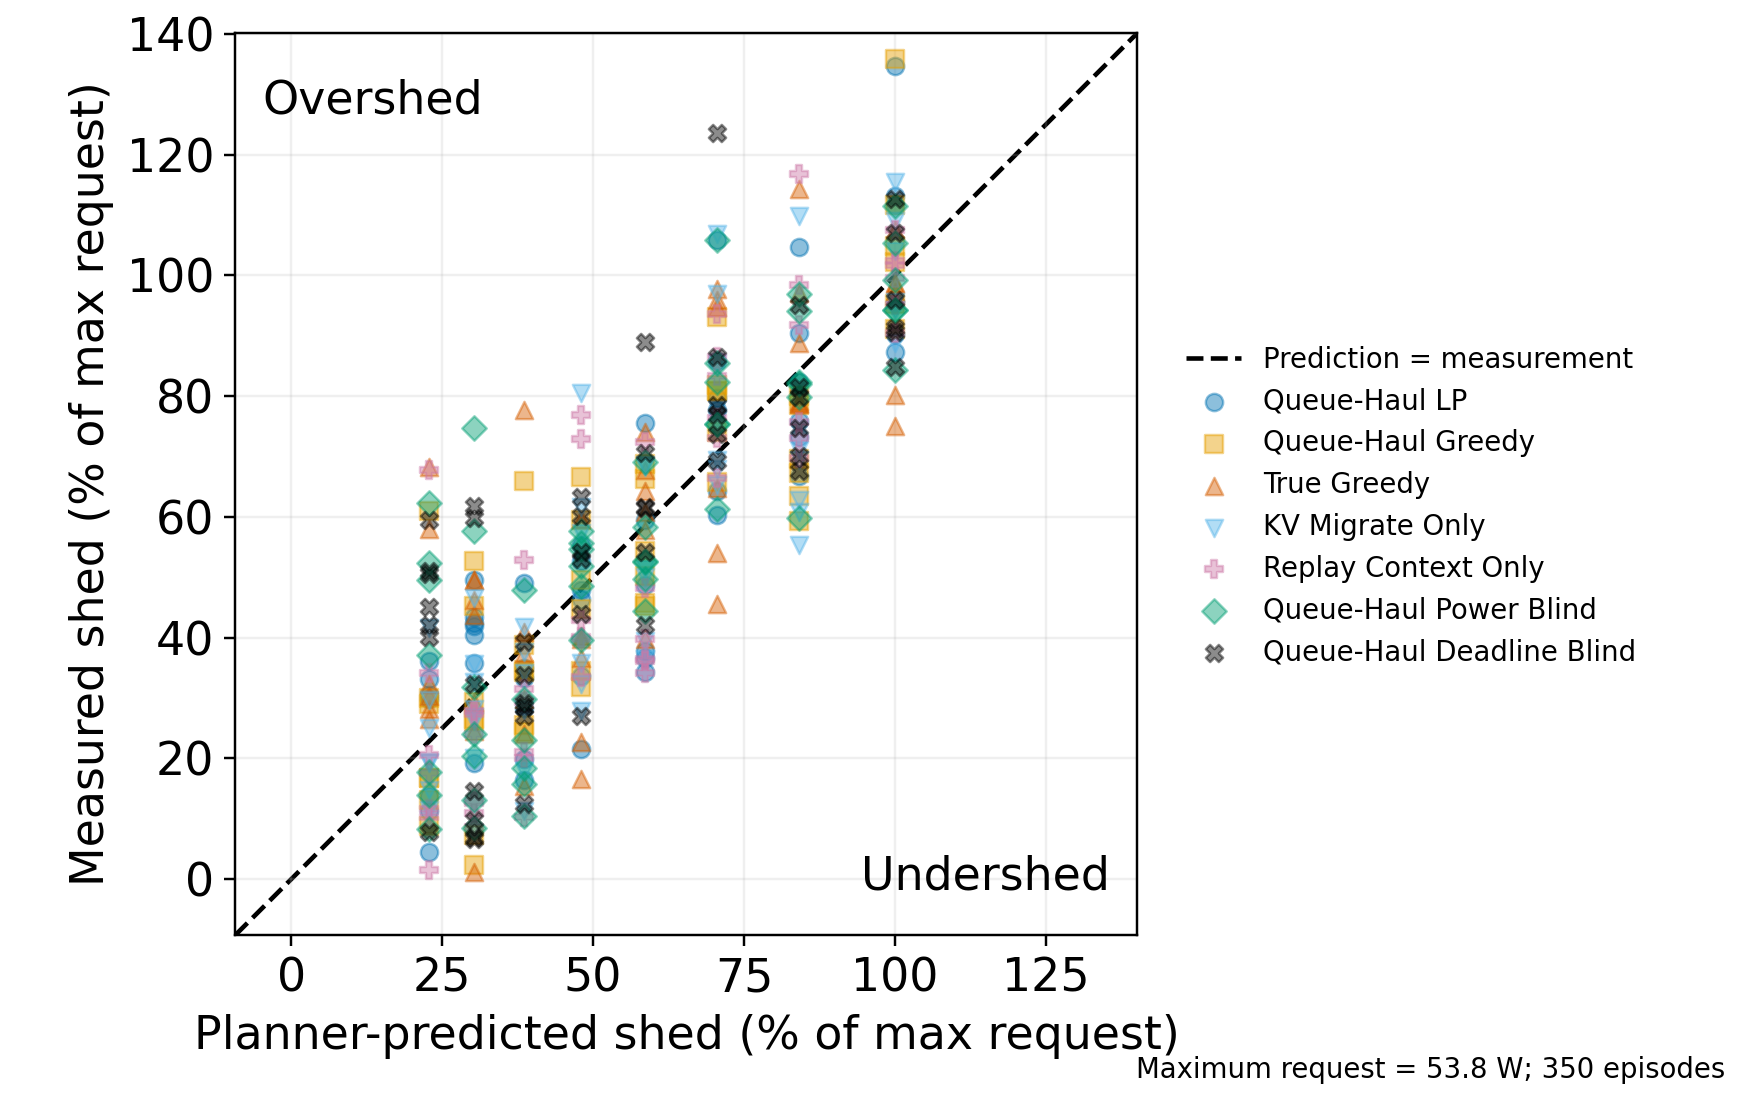
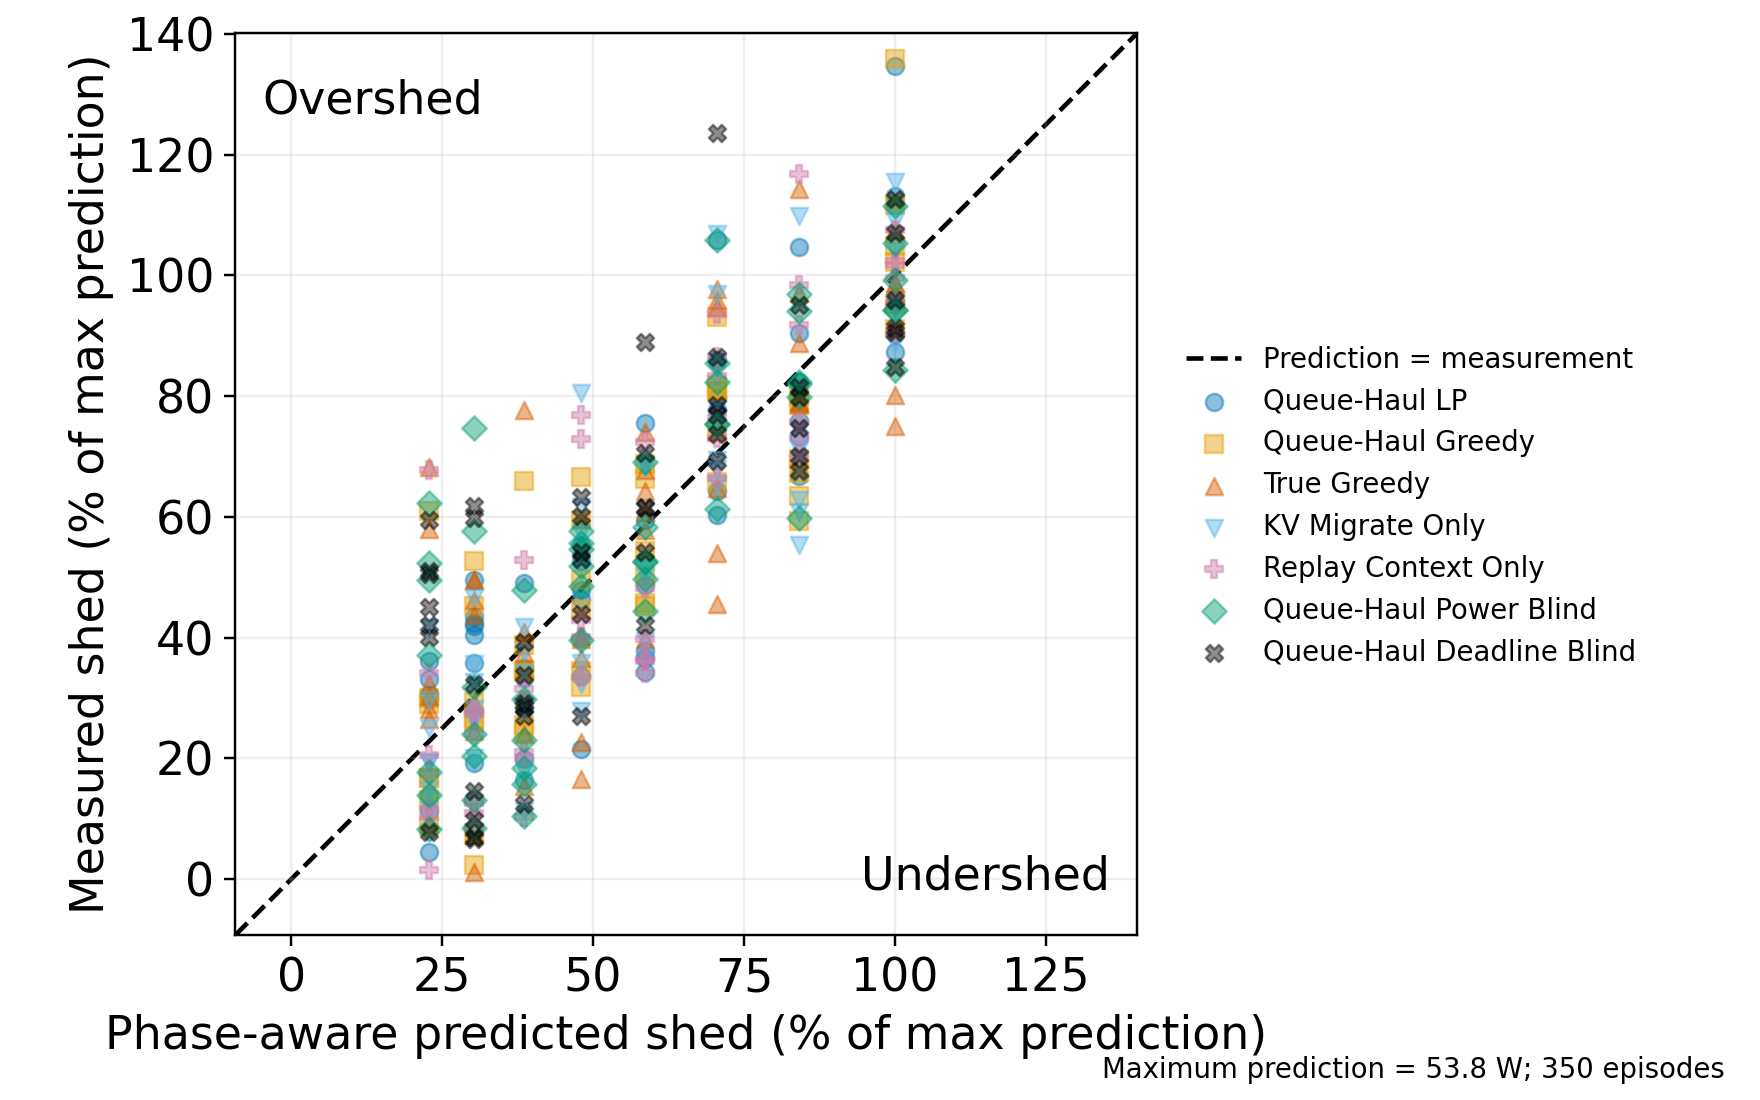
Label phase-aware power parity model

Changed region(s): [[0.0625, 0.9273, 0.7812, 0.9891], [0.0312, 0.0309, 0.0625, 0.8345], [0.8125, 0.9582, 0.9688, 0.9891]]

diff --git a/agent-migrate/queue-haul/plot_hardware_power_parity.py b/agent-migrate/queue-haul/plot_hardware_power_parity.py
@@ -206,15 +206,15 @@ def write_plot(rows: list[dict], scale: float, out: Path) -> None:
         )
     axis.text(.03, .95, "Overshed", transform=axis.transAxes, va="top")
     axis.text(.97, .05, "Undershed", transform=axis.transAxes, ha="right")
-    axis.set(xlabel="Planner-predicted shed (% of max request)",
-             ylabel="Measured shed (% of max request)",
+    axis.set(xlabel="Phase-aware predicted shed (% of max prediction)",
+             ylabel="Measured shed (% of max prediction)",
              xlim=limits, ylim=limits)
     axis.set_aspect("equal", adjustable="box")
     axis.grid(alpha=.2)
     handles, labels = axis.get_legend_handles_labels()
     fig.legend(handles, labels, frameon=False, fontsize=9,
                loc="center left", bbox_to_anchor=(.66, .54))
-    fig.text(.98, .02, f"Maximum request = {scale:.1f} W; {len(rows)} episodes",
+    fig.text(.98, .02, f"Maximum prediction = {scale:.1f} W; {len(rows)} episodes",
              ha="right", fontsize=9)
     fig.subplots_adjust(left=.13, right=.65, bottom=.15, top=.97)
     out.parent.mkdir(parents=True, exist_ok=True)

diff --git a/agent-migrate/queue-haul/tests/test_hardware_power_parity.py b/agent-migrate/queue-haul/tests/test_hardware_power_parity.py
@@ -1,4 +1,13 @@
-"""Direct source-power parity must use raw, settled trace windows."""
+"""
+Claim:
+Power parity compares settled measured shed with phase-aware predicted shed
+using one common normalization.
+
+Plausible wrong implementations:
+- Plot the legacy utilization-only prediction.
+- Normalize prediction and measurement with different maxima.
+- Label the phase-aware prediction as the planner's old power estimate.
+"""
 
 import csv
 
@@ -87,6 +96,8 @@ def test_plot_preserves_all_methods_repeats_and_parity(tmp_path, monkeypatch):
     axis = plt.gcf().axes[0]
     assert axis.lines[0].get_xdata().tolist() == axis.lines[0].get_ydata().tolist()
     assert axis.get_xlim() == axis.get_ylim()
+    assert axis.get_xlabel() == \
+        "Phase-aware predicted shed (% of max prediction)"
     assert len(axis.collections) == len(METHODS)
     assert all(len(collection.get_offsets()) == 2 for collection in axis.collections)
     assert {text.get_text() for text in axis.texts} >= {"Overshed", "Undershed"}

diff --git a/agent-migrate/queue-haul/README.md b/agent-migrate/queue-haul/README.md
@@ -900,6 +900,8 @@ same observations for fitting and parity, so it is not held-out evidence. Its
 shed regression has a 0.997 through-origin slope, effectively zero aggregate
 bias, and 8.66 W RMSE; grouped five-fold episode cross-validation retains a
 0.999 slope, 0.11 W bias, and 8.78 W RMSE. The CSV preserves all policy repeats.
+The parity x-axis reports shed from the fitted
+`P0 + delta_p * z / (1 + z)` model with `z = a*f + b*g`.
 
 Reduction runs automatically and can also be repeated without hardware:
 
